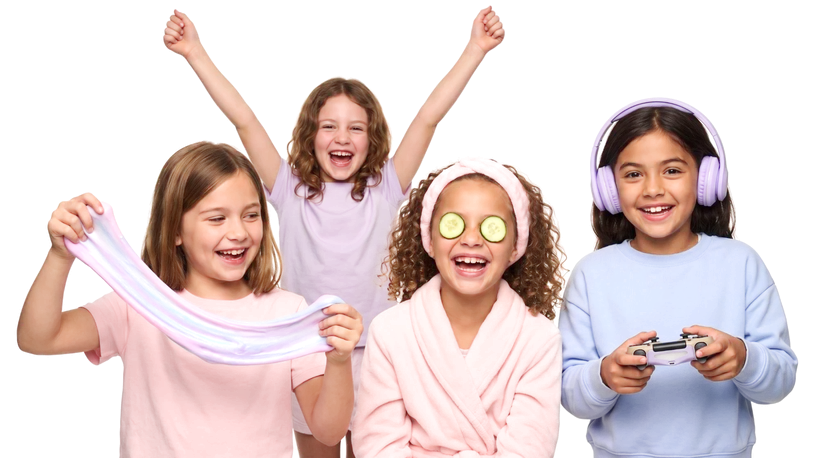
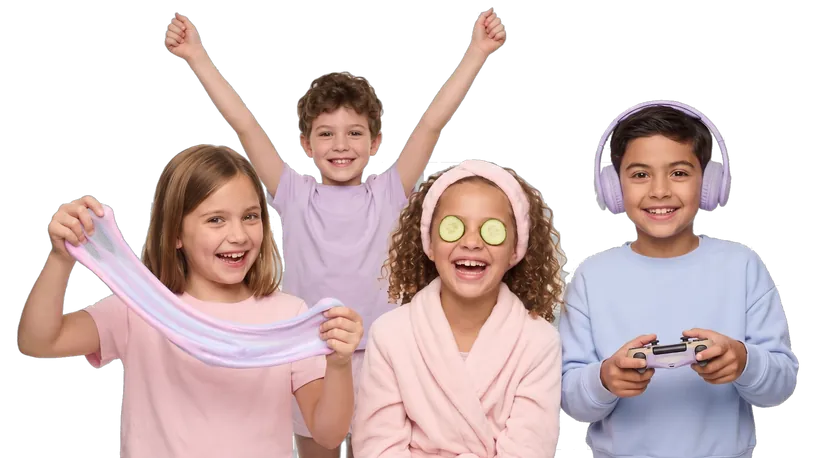
Fluidez do scroll e nova foto da hero
- Remove Lenis: scroll nativo fora do thread principal
- Pausa loops e hover dos objetos enquanto rola
- Nuvens da hero sem animação em loop
- Nova foto das crianças (recorte limpo, 109 KB)

Claude-Session: https://claude.ai/code/session_015NCXkELWZF1x46s6EKqav1

diff --git a/assets/js/main.js b/assets/js/main.js
@@ -251,7 +251,12 @@
   function ligarTopo() {
     var topo = $("#topo"), bt = $(".topo__menu"), menu = $("#menu-movel");
     var fl = $("#flutuante"), rodape = $(".rodape");
+    // enquanto rola: loops pausados e cena da hero sem hover (nada de efeitos nem hit-tests a meio do scroll)
+    var raiz = document.documentElement, tRolar = 0;
     var onScroll = function () {
+      if (!tRolar) raiz.classList.add("a-rolar");
+      clearTimeout(tRolar);
+      tRolar = setTimeout(function () { raiz.classList.remove("a-rolar"); tRolar = 0; }, 200);
       topo.classList.toggle("topo--rolou", window.scrollY > 24);
       fl.classList.toggle("on", window.scrollY > window.innerHeight * 0.7);
       // no rodapé o botão flutuante sai, para não tapar os contactos nem o crédito
@@ -297,7 +302,7 @@
       b.addEventListener("click", function () { window.DKObjetos.animar(b); });
       if (temRato) {
         // a estrela reage ao hover só em CSS (rodar, crescer, brilhar); a volta completa fica para o toque
-        if (tipo !== "estrela") b.addEventListener("mouseenter", function () { window.DKObjetos.animar(b); });
+        if (tipo !== "estrela") b.addEventListener("mouseenter", function () { if (!document.documentElement.classList.contains("a-rolar")) window.DKObjetos.animar(b); });
         if (tipo === "comando") ligarComando(b);
         b.addEventListener("pointermove", function (e) {
           var r = b.getBoundingClientRect();
@@ -341,25 +346,8 @@
     partir(el);
   }
 
-  /* Scroll suave com inércia leve (Lenis), só em computador com rato e sem movimento reduzido.
-     As âncoras do menu passam a deslizar pelo Lenis, com espaço para o cabeçalho. */
-  var lenis = null;
-  function suave(ST) {
-    if (!window.Lenis || !temRato || reduz) return;
-    lenis = new window.Lenis({ lerp: 0.11, wheelMultiplier: 1, smoothWheel: true });
-    document.documentElement.classList.add("lenis-on");
-    lenis.on("scroll", ST.update);
-    window.gsap.ticker.add(function (t) { lenis.raf(t * 1000); });
-    window.gsap.ticker.lagSmoothing(0);
-    document.addEventListener("click", function (e) {
-      var a = e.target.closest('a[href^="#"]'); if (!a) return;
-      var id = a.getAttribute("href"); if (id.length < 2) return;
-      var alvo = document.querySelector(id); if (!alvo) return;
-      e.preventDefault();
-      lenis.scrollTo(alvo, { offset: -90, duration: 1.2 });
-      history.replaceState(null, "", id);
-    });
-  }
+  /* Sem Lenis: o scroll nativo corre fora do thread principal e não trava quando a página está ocupada.
+     As âncoras deslizam com scroll-behavior: smooth (CSS), com scroll-padding-top para o cabeçalho. */
 
   /* Animações em loop (estrelas, nuvens, brilhos) param quando a sua zona sai do ecrã */
   function pausarForaDoEcra() {
@@ -440,7 +428,6 @@
 
     window.addEventListener("load", function () { ST.refresh(); });
     document.documentElement.classList.remove("pre");
-    suave(ST);
   }
 
   /* Linha contínua que liga os momentos da página e se desenha com o scroll */

diff --git a/assets/css/styles.css b/assets/css/styles.css
@@ -237,8 +237,8 @@ main > section { position: relative; z-index: 1; max-width: var(--max); margin: 
 .clone--slime.ativo { filter: url(#f-gosma); } /* o filtro de ondulação só existe enquanto o efeito corre */
 .pe1 { clip-path: ellipse(1.75% 3.1% at 55.1% 49.3%); transform-origin: 55.1% 49.3%; }
 .pe2 { clip-path: ellipse(1.8% 3.2% at 60.1% 50%); transform-origin: 60.1% 50%; }
-.fo1 { clip-path: ellipse(2.1% 7.2% at 72.3% 38%); transform-origin: 72.3% 38%; }
-.fo2 { clip-path: ellipse(2.3% 7.6% at 88% 37%); transform-origin: 88% 37%; }
+.fo1 { clip-path: ellipse(2.1% 7.2% at 72.8% 40%); transform-origin: 72.8% 40%; }
+.fo2 { clip-path: ellipse(2.3% 7.6% at 88% 39%); transform-origin: 88% 39%; }
 /* Comando: sem recorte da foto (somava opacidade na zona de desvanecimento e mostrava um quadrado); só uma luz suave por cima */
 .luz-comando { position: absolute; left: 70%; top: 64%; width: 25%; height: 26%; border-radius: 50%; pointer-events: none; opacity: 0;
   background: radial-gradient(closest-side, rgba(255, 255, 255, .75), rgba(201, 167, 255, .45) 45%, rgba(158, 220, 250, 0) 100%); mix-blend-mode: screen; }
@@ -294,7 +294,7 @@ main > section { position: relative; z-index: 1; max-width: var(--max); margin: 
 
 .hero__nuvens { position: absolute; left: -12%; right: -4%; bottom: -2%; height: 30%; z-index: 1; pointer-events: none; }
 .nv { position: absolute; bottom: 0; }
-.nv > svg { animation: flutua 10s ease-in-out infinite; transition: scale .6s var(--ease); }
+.nv > svg { transition: scale .6s var(--ease); } /* nuvens paradas: 4 loops a menos na hero, quase impercetíveis */
 .nv:hover > svg { scale: 1.04; }
 .nv1 { left: 0; width: 30%; bottom: -4%; }
 .nv2 { left: 22%; width: 34%; bottom: -16%; }
@@ -828,8 +828,9 @@ main > section.cinema { max-width: none; padding-inline: 0; margin-block: clamp(
 .jornada { contain: strict; }
 .parado, .parado * { animation-play-state: paused !important; } /* loops param fora do ecrã */
 html.pre .hero__texto, html.pre .hero__cena { opacity: 0; } /* evita o "piscar" antes da entrada animada */
-html.lenis-on { scroll-behavior: auto; }
-html.lenis-on.lenis-stopped { overflow: hidden; }
+/* Durante o scroll: loops em pausa e objetos sem hover (o browser deixa de testar o rato a cada frame) */
+.a-rolar .obj > svg, .a-rolar [data-obj] > svg, .a-rolar .brilho, .a-rolar .scroll-ind span { animation-play-state: paused; }
+.a-rolar .obj, .a-rolar .nv, .a-rolar .hs, .a-rolar [data-tilt] { pointer-events: none !important; }
 @media (max-width: 900px) {
   .topo::before { backdrop-filter: none; -webkit-backdrop-filter: none; background: rgba(255, 255, 255, .97); } /* desfoque custa caro no telemóvel */
 }

diff --git a/index.html b/index.html
@@ -443,7 +443,6 @@
   <script src="assets/js/data.js"></script>
   <script src="https://cdnjs.cloudflare.com/ajax/libs/gsap/3.12.5/gsap.min.js" defer></script>
   <script src="https://cdnjs.cloudflare.com/ajax/libs/gsap/3.12.5/ScrollTrigger.min.js" defer></script>
-  <script src="https://cdn.jsdelivr.net/npm/lenis@1.1.13/dist/lenis.min.js" defer></script>
   <script src="assets/js/objetos.js" defer></script>
   <script src="assets/js/main.js" defer></script>
   <script src="assets/js/hero-fx.js" defer></script>

diff --git a/assets/js/hero-fx.js b/assets/js/hero-fx.js
@@ -132,7 +132,7 @@
         var agora = Date.now(); if (agora - ultimo < 1100) return; ultimo = agora;
         EFEITOS[tipo] && EFEITOS[tipo]();
       };
-      if (temRato) z.addEventListener("pointerenter", disparar);
+      if (temRato) z.addEventListener("pointerenter", function () { if (!document.documentElement.classList.contains("a-rolar")) disparar(); });
       z.addEventListener("click", disparar);
     });
   }
